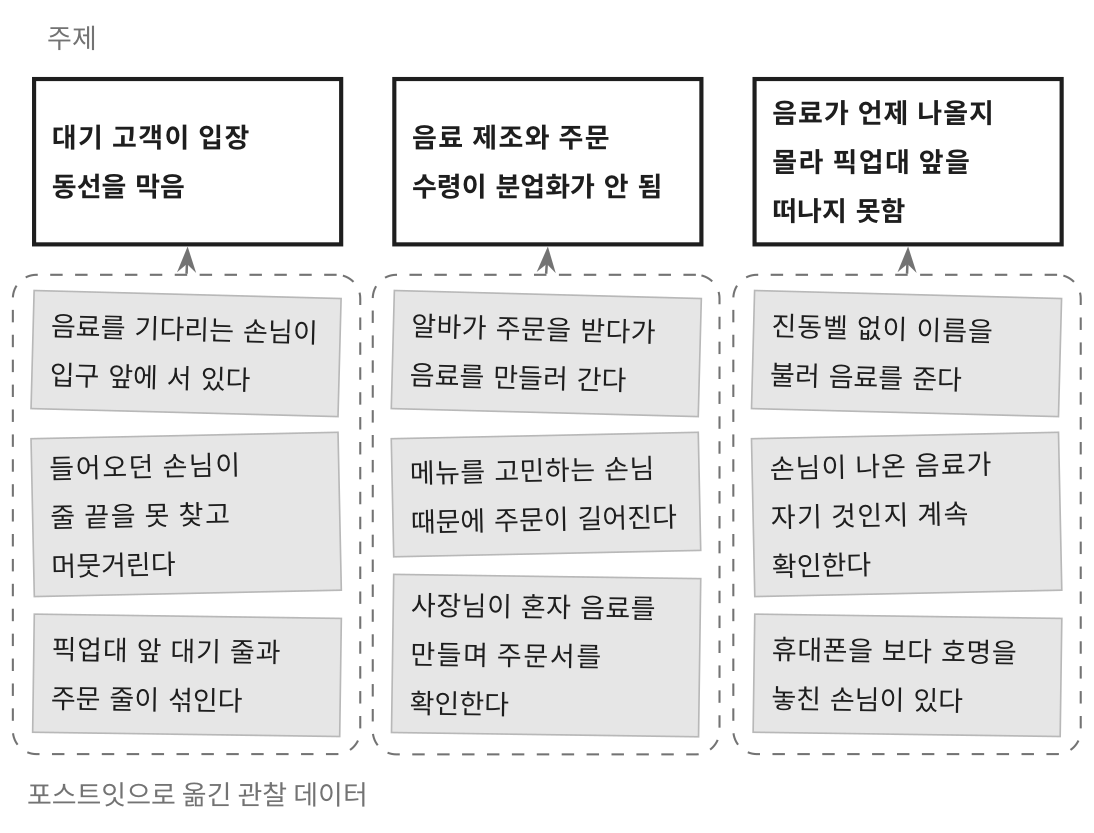
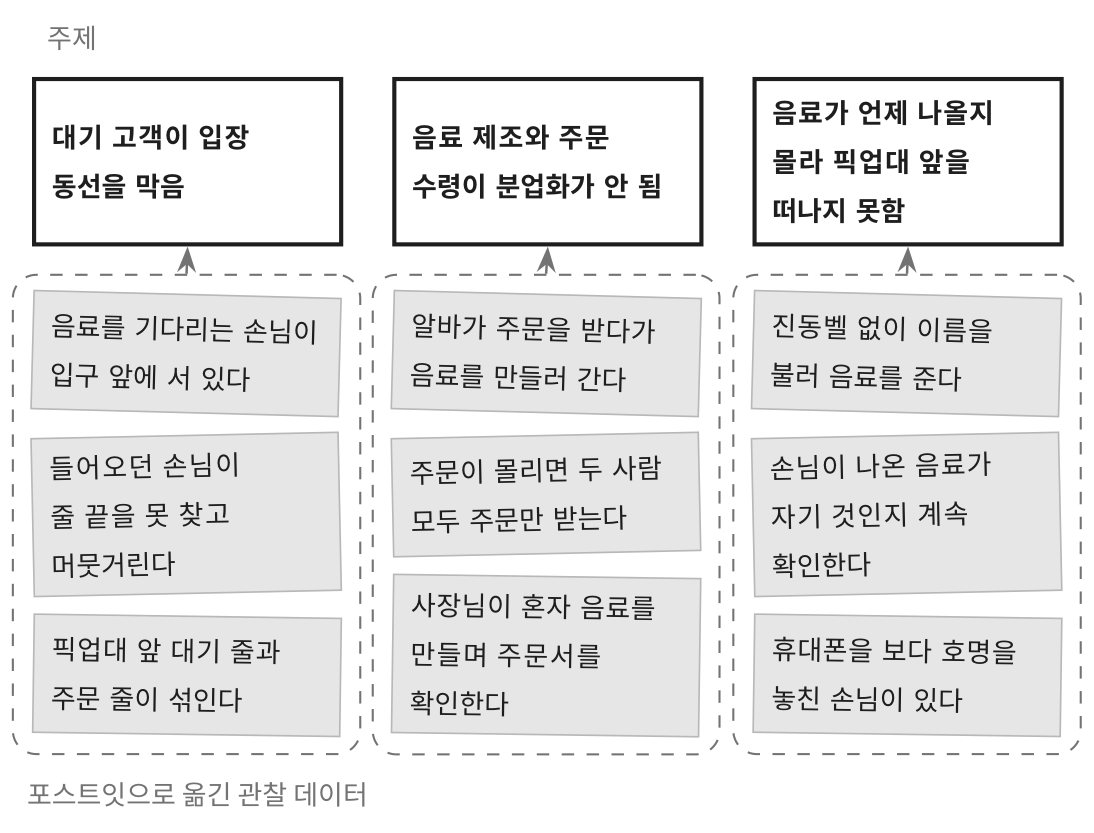
Strengthen content: usability testing steps, report writing tips, design system premise
Also fix UCD definition, observation ethics, iteration stop criterion,
affinity diagram grouping, and add short notes on High-fi, HMW scope,
service blueprint and secondary users.

Changed region(s): [[0.3729, 0.5306, 0.6216, 0.6555]]

diff --git a/figures/affinity-diagram.tex b/figures/affinity-diagram.tex
@@ -23,7 +23,7 @@
          {픽업대 앞 대기 줄과 주문 줄이 섞인다}
   \col{1}{음료 제조와 주문 수령이 분업화가 안~됨}
          {알바가 주문을 받다가 음료를 만들러 간다}
-         {메뉴를 고민하는 손님 때문에 주문이 길어진다}
+         {주문이 몰리면 두 사람 모두 주문만 받는다}
          {사장님이 혼자 음료를 만들며 주문서를 확인한다}
   \col{2}{음료가 언제 나올지 몰라 픽업대 앞을 떠나지 못함}
          {진동벨 없이 이름을 불러 음료를 준다}

diff --git a/chapter5.md b/chapter5.md
@@ -1,12 +1,12 @@
 # Chapter 5: Mid-fi 프로토타이핑
 
-저충실도 프로토타입을 통해서 제품의 기초적인 틀을 잡았다면 중충실도 (Mid-fi) 프로토타입을 통해서는 디테일한 부분을 디자인한다. 이 과정에서는 좀 더 실제 제품과 가까운 형태로 프로토타입을 만들고 사용성 평가를 진행한다. 이 과정에서는 주로 [Figma](https://www.figma.com/)와 같은 프로토타이핑 툴을 사용하는 것이 좋다. 이런 툴들은 손쉽게 코딩 없이 실제 제품과 가까운 프로토타입을 만들 수 있게 해주기 때문이다.
+저충실도 프로토타입을 통해서 제품의 기초적인 틀을 잡았다면 중충실도 (Mid-fi) 프로토타입을 통해서는 디테일한 부분을 디자인한다. 이 과정에서는 좀 더 실제 제품과 가까운 형태로 프로토타입을 만들고 사용성 평가를 진행한다. 이 과정에서는 주로 [Figma](https://www.figma.com/)와 같은 프로토타이핑 툴을 사용하는 것이 좋다. 이런 툴들은 손쉽게 코딩 없이 실제 제품과 가까운 프로토타입을 만들 수 있게 해주기 때문이다. 그렇다면 고충실도 (High-fi) 프로토타입은 어디에서 다룰까? 실제 제품과 거의 구분되지 않는 고충실도 프로토타입은 사실상 구현 단계에 가깝기 때문에 이 소책자에서는 따로 다루지 않는다. 그 대신 다음 장에서 디자인을 구현으로 넘기는 과정을 이야기한다.
 
 이 단계에서 얼마나 실제와 가깝게 만들어야 하는지 궁금할 수 있다. 그것은 무엇을 검증해야 하는가에 따라서 달라진다. 인터페이스의 정보 구조나 컴포넌트 수준의 인터페이스 검증이 필요하다면 [스타일 없이 뼈대만 있는 인터페이스](https://www.figma.com/community/file/1075811850250564922/paper-wireframe-kit)를 사용해도 괜찮다. 하지만 만약 스타일이 사용자 경험에 중요하다고 판단이 되면 구현하고자 하는 스타일이 적용된 중충실도 프로토타입을 만들어야 할 것이다.
 
 ![같은 키오스크 주문 화면의 세 가지 충실도](img/fidelity-comparison.png)
 
-보통의 회사라면 디자인 시스템이 있을 것이다. 디자인 시스템이 없더라도 인터페이스 컴포넌트들이 존재할 수 있다. 그러한 재료들을 사용하면 중충실도 프로토타입을 쉽고 빠르게 만들 수 있기 때문에 사용하고 싶을 것이다. 하지만 이 단계에서는 그러한 재료를 사용하지 않는 것을 추천한다. 이유는 두 가지다. 첫째, 중충실도 프로토타입은 딱 중충실도만큼만 다듬어져 있어야 한다. 만약 프로토타입이 지나치게 고충실도로 보인다면 피드백을 주는 사람이 어디까지 바꿀 수 있는 것이고 바꿀 수 없는 것인지 알기 어려울 수 있다. 그러면 바꾸고 싶은 부분이 있더라도 이미 완성되어 보여서 의견을 주지 않을 수 있고 폭넓은 피드백을 받기가 어렵다. 둘째, 기존에 있는 틀에 얽매이게 되어서 더 나은 디자인이 나오지 못할 수 있다. 충분히 고민을 할 수 있는 기회가 사라지는 것이다. 이것은 [디자인 시스템이 가지고 있는 한계점](https://youtu.be/BQXTt-NZ2Bs) 중 하나이다. 이 단계는 충분히 자유롭게 인터페이스를 탐색해 보고, 기존의 디자인 시스템에 한계가 드러난다면 개선을 결정해야 하는 단계이다.
+회사에 디자인 시스템이 있을 수 있다. 디자인 시스템은 색, 글꼴, 버튼 같은 인터페이스 요소를 일관되게 쓰기 위해 정리해 둔 규칙과 컴포넌트 모음이다. 디자인 시스템이 없더라도 이미 만들어 둔 인터페이스 컴포넌트들이 존재할 수 있다. 그러한 재료들을 사용하면 중충실도 프로토타입을 쉽고 빠르게 만들 수 있기 때문에 사용하고 싶을 것이다. 하지만 이 단계에서는 그러한 재료를 사용하지 않는 것을 추천한다. 앞에서 스타일이 중요하다면 스타일을 적용하라고 한 것과 모순처럼 들릴 수 있다. 하지만 검증하려는 부분에 필요한 만큼만 스타일을 직접 입히는 것과, 이미 완성된 컴포넌트를 그대로 가져다 쓰는 것은 다르다. 완성된 컴포넌트를 가져오면 아직 정해지지 않은 부분까지 포함해서 인터페이스 전체가 완성품처럼 보이기 때문이다. 중요한 것은 미완성인 부분은 미완성처럼 보여야 한다는 점이다. 기존 재료를 추천하지 않는 이유는 두 가지다. 첫째, 프로토타입이 완성품처럼 보이면 피드백을 주는 사람이 어디까지 바꿀 수 있고 어디부터 바꿀 수 없는지 알기 어렵다. 그러면 바꾸고 싶은 부분이 있더라도 이미 완성되어 보여서 의견을 주지 않을 수 있고 폭넓은 피드백을 받기가 어렵다. 둘째, 기존에 있는 틀에 얽매이게 되어서 더 나은 디자인이 나오지 못할 수 있다. 충분히 고민을 할 수 있는 기회가 사라지는 것이다. 이것은 [디자인 시스템이 가지고 있는 한계점](https://youtu.be/BQXTt-NZ2Bs) 중 하나이다. 이 단계는 충분히 자유롭게 인터페이스를 탐색해 보고, 기존의 디자인 시스템에 한계가 드러난다면 개선을 결정해야 하는 단계이다.
 
 ![디자인 시스템에 대한 한 디자이너의 말: 디자인에 접근하는 방식이 '가장 좋은 해결책은 무엇인가?'에서 '가진 것으로 무엇을 만들 수 있는가?'로 바뀌었다. 출처: Cam Worboys, 「The broken promises of design systems」, Config 2024, Figma (5:25)](img/video-design-system-quote.png)
 

diff --git a/chapter4.md b/chapter4.md
@@ -12,7 +12,17 @@
 
 위와 같이 페이퍼 프로토타입을 만들었으면, 프로토타입을 통하여 사용성을 평가해야 한다. 여기서 말하는 사용성은 넓은 범위의 사용성을 의미한다. 인터페이스의 문제를 파악하는 것부터 아이디어 자체에 대한 평가까지 이루어져야 한다.
 
-사용성 평가에서 중요한 것은 다른 과정들과 마찬가지로 목적을 분명하게 하는 것이다. 그에 따라서 어떤 질문들을 해야 할지 정해지고 사용성 평가의 방식이 정해진다. 전반적인 틀은 평가 참가자가 프로토타입을 사용하게 해보고 참가자를 통해서 디자인팀은 궁금한 점들을 해소하는 것이다. 디자인팀은 참가자에게 직접적인 질문을 할 수도 있고 관찰을 할 수도 있다. 관련해서 다양한 방법론들이 있는데, 앞서 소개한 '[디자인 방법론 불변의 법칙 100가지](https://product.kyobobook.co.kr/detail/S000001226665)', '[유저 리서치: UX를 위한 사용자 조사의 모든 것](https://product.kyobobook.co.kr/detail/S000001913024)'와 같은 책들에 구체적인 방법론들이 소개되어 있다.
+사용성 평가에서 중요한 것은 다른 과정들과 마찬가지로 목적을 분명하게 하는 것이다. 그에 따라서 어떤 질문들을 해야 할지 정해지고 사용성 평가의 방식이 정해진다. 전반적인 틀은 평가 참가자가 프로토타입을 사용하게 해보고 참가자를 통해서 디자인팀은 궁금한 점들을 해소하는 것이다. 디자인팀은 참가자에게 직접적인 질문을 할 수도 있고 관찰을 할 수도 있다.
+
+사용성 평가가 처음이라면 다음과 같은 순서로 진행해 보자. `경험커피`의 주문 화면을 페이퍼 프로토타입으로 만들었다고 가정하겠다.
+
+1. **참가자를 모은다.** 타겟 사용자에 해당하는 사람을 5명 정도 모은다. `경험커피`라면 평일 점심에 카페를 찾는 직장인이다. [5명 정도면 큰 사용성 문제는 대부분 드러난다](https://www.nngroup.com/articles/why-you-only-need-to-test-with-5-users/). 많은 인원으로 한 번 평가하는 것보다 적은 인원으로 평가하고 고치기를 여러 번 반복하는 편이 낫다.
+2. **과업 시나리오를 준비한다.** "한번 써 보세요"라고 하지 않고 구체적인 과업을 준다. 예를 들면 "점심을 먹고 동료와 함께 왔습니다. 아이스 아메리카노 한 잔과 따뜻한 라테 한 잔을 포장으로 주문해 보세요."와 같은 식이다. 이때 버튼 이름이나 조작 방법은 알려 주지 않고 달성할 목표만 말한다.
+3. **소리 내어 생각하게 한다.** 참가자에게 프로토타입을 사용하면서 떠오르는 생각을 그대로 말해 달라고 부탁한다. 이것을 [소리 내어 생각하기 (Think-aloud)](https://www.nngroup.com/articles/thinking-aloud-the-1-usability-tool/)라고 한다. "포장은 어디서 고르지?"와 같은 혼잣말을 통해서 참가자가 어디에서 왜 막히는지 알 수 있다.
+4. **도와주지 않는다.** 시작하기 전에 평가받는 것은 참가자가 아니라 프로토타입이라고 말해 준다. 그리고 참가자가 헤매더라도 설명하거나 힌트를 주지 않는다. 참가자가 막히는 순간이 바로 디자인팀이 찾고 있는 데이터이기 때문이다. 궁금한 점은 과업이 끝난 뒤에 질문한다.
+5. **기록하고 정리한다.** 한 명은 진행을 하고 다른 한 명은 관찰한 것을 기록한다. 페이퍼 프로토타입이라면 컴퓨터 역할을 하는 사람도 필요하다. 평가가 끝나면 발견한 문제들을 모아서 심각도에 따라 나눈다. 여러 참가자가 주문을 끝내지 못하게 만든 문제와 잠깐 머뭇거리게 만든 문제는 무게가 다르다.
+
+더 다양한 방법이 궁금하다면 앞서 소개한 '[디자인 방법론 불변의 법칙 100가지](https://product.kyobobook.co.kr/detail/S000001226665)', '[유저 리서치: UX를 위한 사용자 조사의 모든 것](https://product.kyobobook.co.kr/detail/S000001913024)'과 같은 책들을 참고하면 좋다.
 
 ## 경험 프로토타이핑
 
@@ -20,7 +30,7 @@
 
 ![구글 글래스의 첫 프로토타입. 옷걸이, 시트 프로텍터, 피코 프로젝터, 넷북으로 만들었다. 출처: Tom Chi, 「Rapid prototyping Google Glass」, TED-Ed, 2013 (1:24)](img/video-glass-rule1.png)
 
-사용성 평가나 경험 프로토타이핑을 통해서 문제가 발생을 한다면 문제가 모두 해결될 때까지 제품 디자인을 수정하고 다시 이 과정을 수행해야 한다.
+사용성 평가나 경험 프로토타이핑을 통해서 문제가 발견된다면, 사용자가 과업을 완수하지 못하게 만드는 치명적인 문제들이 해결될 때까지 제품 디자인을 수정하고 다시 이 과정을 수행해야 한다. 사소한 문제까지 모두 없애려고 하기보다는 문제의 심각도를 따져서 우선순위를 정하는 것이 현실적이다.
 
 ## 제약 사항 (Constraints)
 

diff --git a/chapter7.md b/chapter7.md
@@ -4,10 +4,22 @@
 
 디자인 리포트에서 중요한 것은 결과물뿐만이 아니다. 왜 최종 결과물이 나오게 되었는지 그 과정을 모두 담고 있는 것이 중요하다. 그것을 통해서 다른 사람들이 제품뿐만 아니라 사용자에 대해서도 배우게 되기 때문이다. 그러면 그 내용이 이후에 제품을 개선할 때 많은 도움이 될 수 있고, 비슷한 타겟 사용자를 위한 다른 제품을 만들 때도 도움이 될 수 있다. 또한 디자인 프로세스 측면에서도 다른 프로젝트에 적용할 수 있는 부분들도 많이 있을 것이다. 그렇기 때문에 최종 결과만큼이나 중간 결과물들과 프로세스에 대해서 설명하는 것은 중요하다.
 
-가장 널리 사용되는 리포트의 형태는 논문일 것이다. 다음과 같은 구조가 하나의 예시가 될 수 있다.
+리포트의 형식이 정해져 있는 것은 아니지만 논문의 구조는 참고하기 좋은 틀이다. 다음과 같은 구조가 하나의 예시가 될 수 있다.
 
 1. 서론: 제품이 해결하고자 하는 문제와 배경을 설명하고 최종 제품에 대한 설명을 간략히 기술한다.
 2. 도메인 지식: [Chapter 1](chapter1.md)에서 조사한 도메인 지식 내용들을 설명한다. 이 프로젝트의 도메인 지식이 없는 독자들을 위한 것이다. 보통 논문에서는 _관련 연구_ 라고 부르기도 한다.
 3. 제품 설명: 제품이 무엇이고 어떻게 동작하는지 **자세히** 설명한다.
 4. 디자인 프로세스: 앞서 진행한 각 단계들에 대해서 중요한 부분들을 설명한다. 어떤 과정을 거쳐서 솔루션을 도출했고, 사용성 평가들은 어떤 식으로 이루어져 어떤 결과를 보였는지 기술한다. 모든 내용을 다 적기에는 양이 많을 수 있기 때문에 적당한 수준의 세부사항들을 기술한다.
 5. 논의 및 향후 계획: 논의할 부분들이 있으면 기술하고 앞으로의 제품 발전 방향에 대해서 이야기한다.
+
+리포트를 쓸 때는 다음과 같은 점들을 기억하자.
+
+- **독자를 먼저 정한다.** 개발팀이 읽을 리포트와 경영진이 읽을 리포트는 강조할 내용이 다르다. 독자를 정하기 어렵다면 이 프로젝트를 전혀 모르는 반년 뒤의 동료를 떠올리면 된다.
+- **결론을 먼저 쓴다.** 리포트를 끝까지 읽는 사람은 많지 않다. 첫 문단만 읽어도 무엇을 만들었고 왜 만들었는지 알 수 있어야 한다.
+- **결정에는 근거를 붙인다.** "주문 후에 기다릴 위치를 안내하는 화면을 넣었다"에서 끝내지 않고 "음료를 기다리는 고객이 입구를 막는 것을 관찰했기 때문에"라는 근거를 함께 적는다. 앞에서 도출한 인사이트와 사용성 평가 결과가 여기에서 쓰인다.
+- **버린 것도 기록한다.** 선택되지 않은 HMW 질문과 탈락한 스케치도 왜 선택하지 않았는지와 함께 남긴다. 나중에 같은 고민을 반복하지 않게 해 주고, 제품을 개선할 때 출발점이 된다.
+- **그림으로 보여 준다.** UX 시스템 스케치, 친화도 다이어그램, 스토리보드, 프로토타입 사진처럼 앞 단계에서 만든 결과물들이 그대로 리포트의 재료가 된다. 글로 길게 설명하는 것보다 그림 한 장이 더 빨리 전달된다.
+
+## 발표하기
+
+리포트를 작성했다면 발표 자료는 어렵지 않게 만들 수 있다. 발표는 리포트의 요약이기 때문이다. 다만 발표를 듣는 사람은 리포트를 읽는 사람과 달리 앞으로 돌아가서 다시 볼 수 없다. 그래서 모든 내용을 담으려고 하지 말고 해결하려는 문제, 해결 방법, 그리고 그 근거라는 큰 흐름만 남기는 것이 좋다. 슬라이드 한 장에는 하나의 메시지만 담고, 자세한 내용이 궁금한 사람은 리포트를 볼 수 있게 안내한다.

diff --git a/chapter1.md b/chapter1.md
@@ -42,11 +42,11 @@
 
 이 과정에서는 회사의 상황이나 본인의 가치관 같은 것들이 영향을 미칠 수 있다. 회사에서 현재 신규 고객에 집중해야 하는 상황이라면 신규 고객이 대상이 될 것이다. 노년층을 위한 서비스를 만드는 것도 충분히 가치 있지만 주 고객이 청년층이라면 그들이 타겟 고객이 되어야 할 것이다.
 
-그렇다면 `경험커피` 키오스크의 타겟 사용자는 누구일까? `경험커피`에는 다양한 시간대에 손님들이 오지만 이 프로젝트에서는 평일 점심에 오는 직장인 손님들이 키오스크의 타겟 사용자가 될 것이다. 다른 고객들도 중요하지만 일단은 그들을 신경 쓰지 않아도 괜찮다.
+그렇다면 `경험커피` 키오스크의 타겟 사용자는 누구일까? `경험커피`에는 다양한 시간대에 손님들이 오지만 이 프로젝트에서는 평일 점심에 오는 직장인 손님들이 키오스크의 타겟 사용자가 될 것이다. 다른 고객들도 중요하지만 일단은 그들을 신경 쓰지 않아도 괜찮다. 한편 키오스크로 들어온 주문을 받아 처리하는 알바생과 사장님도 이 제품의 사용자라는 점을 잊지 말자. 이들은 2차 사용자 (Secondary User)로, 주문을 넣는 고객만큼이나 제품의 성공에 영향을 미친다.
 
 ## 확인하기: UX 시스템 스케치
 
-내가 과연 제품을 만들기 전에 제품이 위치하는 지형을 잘 파악했는지 어떻게 알 수 있을까? 내가 만들고자 하는 제품이 제공하는 서비스가 어떻게 구성되어 있는지 그 구조를 설명할 수 있으면 어느 정도 이해했다고 볼 수 있다. 여기서 말하는 것은 사용자 경험 관점에서의 구조이다. 이걸 [사용자 여정 지도 (User Journey Map)](https://www.nngroup.com/articles/journey-mapping-101/)라고 부르기도 하는데 나는 완벽히 적절한 용어라고 생각하지는 않는다. 오히려 **UX 시스템 스케치**가 적절한 용어라고 생각한다. UX 관점에서 시스템의 구조를 나타내기 때문이다. 아래 이미지는 `경험커피`의 UX 시스템 스케치이다.
+내가 과연 제품을 만들기 전에 제품이 위치하는 지형을 잘 파악했는지 어떻게 알 수 있을까? 내가 만들고자 하는 제품이 제공하는 서비스가 어떻게 구성되어 있는지 그 구조를 설명할 수 있으면 어느 정도 이해했다고 볼 수 있다. 여기서 말하는 것은 사용자 경험 관점에서의 구조이다. 이걸 [사용자 여정 지도 (User Journey Map)](https://www.nngroup.com/articles/journey-mapping-101/)라고 부르기도 하는데 나는 완벽히 적절한 용어라고 생각하지는 않는다. 오히려 **UX 시스템 스케치**가 적절한 용어라고 생각한다. UX 관점에서 시스템의 구조를 나타내기 때문이다. 여정 지도는 보통 한 사용자의 시점을 따라가지만, 이 스케치는 고객과 알바생, 사장님처럼 여러 사람 사이를 오가는 흐름을 함께 보여 준다. 이런 점에서는 [서비스 블루프린트 (Service Blueprint)](https://www.nngroup.com/articles/service-blueprints-definition/)에 더 가깝다. 아래 이미지는 `경험커피`의 UX 시스템 스케치이다.
 
 ![경험커피의 UX 시스템 스케치](img/ux-system-sketch.png)
 

diff --git a/chapter2.md b/chapter2.md
@@ -24,7 +24,7 @@
 
 ### 데이터 수집
 
-데이터를 수집하는 방법은 다양하게 있다. 직접 사용자를 인터뷰하거나 설문조사를 하는 방법이 있다. 동행 관찰 (shadowing)은 사용자를 따라다니면서 실제 사용자의 행동을 관찰하는 방법이고, 몰래 관찰하기 (fly-on-the-wall observation)는 직접 개입 없이 사용자들 몰래 사용자들을 관찰하는 방법이다. 여기에서 다양한 방법들을 모두 소개하는 것은 어려우니 참고하면 좋은 책들과 자료들을 추천하겠다.
+데이터를 수집하는 방법은 다양하게 있다. 직접 사용자를 인터뷰하거나 설문조사를 하는 방법이 있다. 동행 관찰 (shadowing)은 사용자를 따라다니면서 실제 사용자의 행동을 관찰하는 방법이고, 비개입 관찰 (fly-on-the-wall observation)은 관찰자가 개입하지 않고 사용자들이 평소처럼 행동하는 모습을 지켜보는 방법이다. 어떤 방법이든 사람을 관찰하거나 기록할 때는 미리 목적을 알리고 동의를 구해야 한다. 특히 사진이나 영상을 남긴다면 반드시 동의를 받고, 수집한 데이터는 정한 목적 외에는 사용하지 않아야 한다. 여기에서 다양한 방법들을 모두 소개하는 것은 어려우니 참고하면 좋은 책들과 자료들을 추천하겠다.
 
 - [디자인 방법론 불변의 법칙 100가지 - 벨라 마틴, 브루스 해밍턴](https://product.kyobobook.co.kr/detail/S000001226665): 이 책에 다양한 방법론들이 나와 있는데 자신의 상황에 맞는 방법론을 차용하거나 새롭게 만들어서 진행하면 좋다.
 - [유저 리서치: UX를 위한 사용자 조사의 모든 것 - 스테파니 마시](https://product.kyobobook.co.kr/detail/S000001913024): 데이터 수집 방법론뿐만 아니라 유저 리서치 전반에 대해 종합적이고 자세하게 설명하는 책이다.
@@ -65,6 +65,8 @@
 - '어떻게 하면 주문 후에 고객들이 카페 안쪽으로 들어가게 할 수 있을까?'
 - '어떻게 하면 주문을 카페 안쪽에서 할 수 있을까?'
 - '어떻게 하면 카페 밖에서도 주문을 할 수 있을까?'
+
+HMW 질문은 너무 넓지도, 너무 좁지도 않게 쓰는 것이 중요하다. 두 번째 예시처럼 '카페 안쪽에서 주문한다'는 해결책이 이미 질문 안에 들어가 있으면 다른 가능성을 미리 닫아 버리게 된다. 해결책이 먼저 떠오른다면 한 단계 물러서서 그 해결책이 풀려는 문제가 무엇인지를 질문으로 다시 써 보자.
 
 HMW 질문은 사용자의 니즈이자 디자인팀이 해결해야 하는 문제이다. HMW 질문들은 다음과 같은 과정을 통해 도출할 수 있다.
 

diff --git a/README.md b/README.md
@@ -6,7 +6,7 @@
 
 이 소책자에서 말하는 제품은 주로 IT 제품들을 말한다. 소프트웨어가 되겠다. 하지만 하드웨어 제품에도 어느 정도 적용 가능한 부분이 있지 않을까 생각한다. 더불어서 이 소책자에서 말하는 디자인은 **설계**의 의미를 가지고 있다. 미적인 디자인에 대한 내용을 다루지는 않는다. 누군가는 이 프로세스를 기획이라고 말하기도 하지만 나는 개인적으로 기획이라는 단어보다는 설계라는 단어가 적절하다고 생각한다. 기획은 디자인 과정의 일부일 뿐이다.
 
-제품을 디자인하는 방법은 여러 가지가 있는데, 이 소책자는 **사용자 중심** 프로덕트 디자인 방법에 대해 다룬다. 사용자 중심이라는 단어가 잘 와닿지 않을 수 있다. 사용자 중심의 의미는 디자인 과정에서 사용자의 의견을 적극적으로 반영하는 것을 말한다. 하지만 이것은 사용자가 원하는 것을 만들어 주는 것과는 다르다. 사용자 중심 디자인이 아닌 방법의 예시로는 직관이나 고찰을 통한 장인정신에 입각한 디자인이 있을 수 있다. 분명 유효한 방법이라고 생각하지만 매우 다른 성격의 방법이기에 여기에서 다루지 않는다.
+제품을 디자인하는 방법은 여러 가지가 있는데, 이 소책자는 **사용자 중심** 프로덕트 디자인 방법에 대해 다룬다. 사용자 중심이라는 단어가 잘 와닿지 않을 수 있다. 사용자 중심이란 사용자와 사용자가 놓인 상황을 깊이 이해하고, 그 이해와 사용자를 통한 평가를 근거로 디자인을 결정해 나가는 것을 말한다. 따라서 사용자의 의견을 그대로 따르거나 사용자가 원한다고 말하는 것을 만들어 주는 것과는 다르다. 사용자 중심 디자인이 아닌 방법의 예시로는 직관이나 고찰을 통한 장인정신에 입각한 디자인이 있을 수 있다. 분명 유효한 방법이라고 생각하지만 매우 다른 성격의 방법이기에 여기에서 다루지 않는다.
 
 사용자 중심 디자인은 제품의 상업적 성공을 보장하지는 않는다. 상업적 성공에는 정말 다양한 요인들이 영향을 미친다. 타이밍도 중요하고 마케팅과 운영도 중요하다. 이런 요소들은 중요하지만 프로덕트 디자인과 관련이 적기 때문에 다루지 않는다. 정리하면, 사용자 중심 디자인은 좋은 제품을 만들기 위한 방법이고, 좋은 제품이 곧 상업적 성공으로 이어지는 것은 아니다.
 

diff --git a/chapter6.md b/chapter6.md
@@ -1,6 +1,6 @@
 # Chapter 6: 디자인 커뮤니케이션하기
 
-지금까지의 디자인은 엄밀히 말하면 개념적인 수준의 디자인이다. 실제 구현을 위해서 정해져야 하는 것들은 무수히 많다. 먼저 지금까지 설계한 제품을 회사에 구축되어 있는 디자인 시스템에 맞추어서 다시 정의해야 한다. 이 과정에서 디자인 시스템의 수정이 필요하면 수정도 해야 한다.
+지금까지의 디자인은 엄밀히 말하면 개념적인 수준의 디자인이다. 실제 구현을 위해서 정해져야 하는 것들은 무수히 많다. 회사에 디자인 시스템이 있다면 먼저 지금까지 설계한 제품을 그 디자인 시스템에 맞추어서 다시 정의해야 한다. 이 과정에서 디자인 시스템의 수정이 필요하면 수정도 해야 한다. 디자인 시스템이 없다면 이 단계에서 색, 글꼴, 간격, 자주 쓰는 컴포넌트 정도의 최소한의 규칙을 정해 두는 것이 좋다. 이 규칙들이 이후 디자인 시스템의 씨앗이 된다.
 
 디자인 시스템을 매개로 한 개발자와 디자이너의 소통만으로도 굉장히 큰 주제다. 흥미로운 것은 개발자와 디자이너가 같은 사람이더라도 디자인과 개발 사이의 간극을 줄이기 어렵다는 점이다. 그리고 이 문제를 푸는 단 하나의 좋은 방법은 없다. Figma와 같은 다양한 툴들도 완벽하게 해결해 주지 못하고 있다. 이상적으로는 디자인과 구현에 대한 사항들이 어느 정도 구체적인 수준으로 **같이 정의되어 있는** 파일을 만들면 된다. 모두가 의사 결정을 하기 위해서 동일한 것을 볼 수 있게 되고 이것이 서로 다른 것을 보고 이야기하는 것보다 소통을 효율적으로 만들어 주기 때문이다. 단순하게 이야기하면 [single source of truth (SSOT)](https://en.wikipedia.org/wiki/Single_source_of_truth)를 만드는 것이다. 하지만 이런 문제를 해결해 주는 마법 같은 툴은 없다. 회사에서 사용하는 다양한 툴들을 활용해서 이러한 SSOT 파일을 만들고 관리하는 프로세스를 구축하는 것이 필요하다.
 
